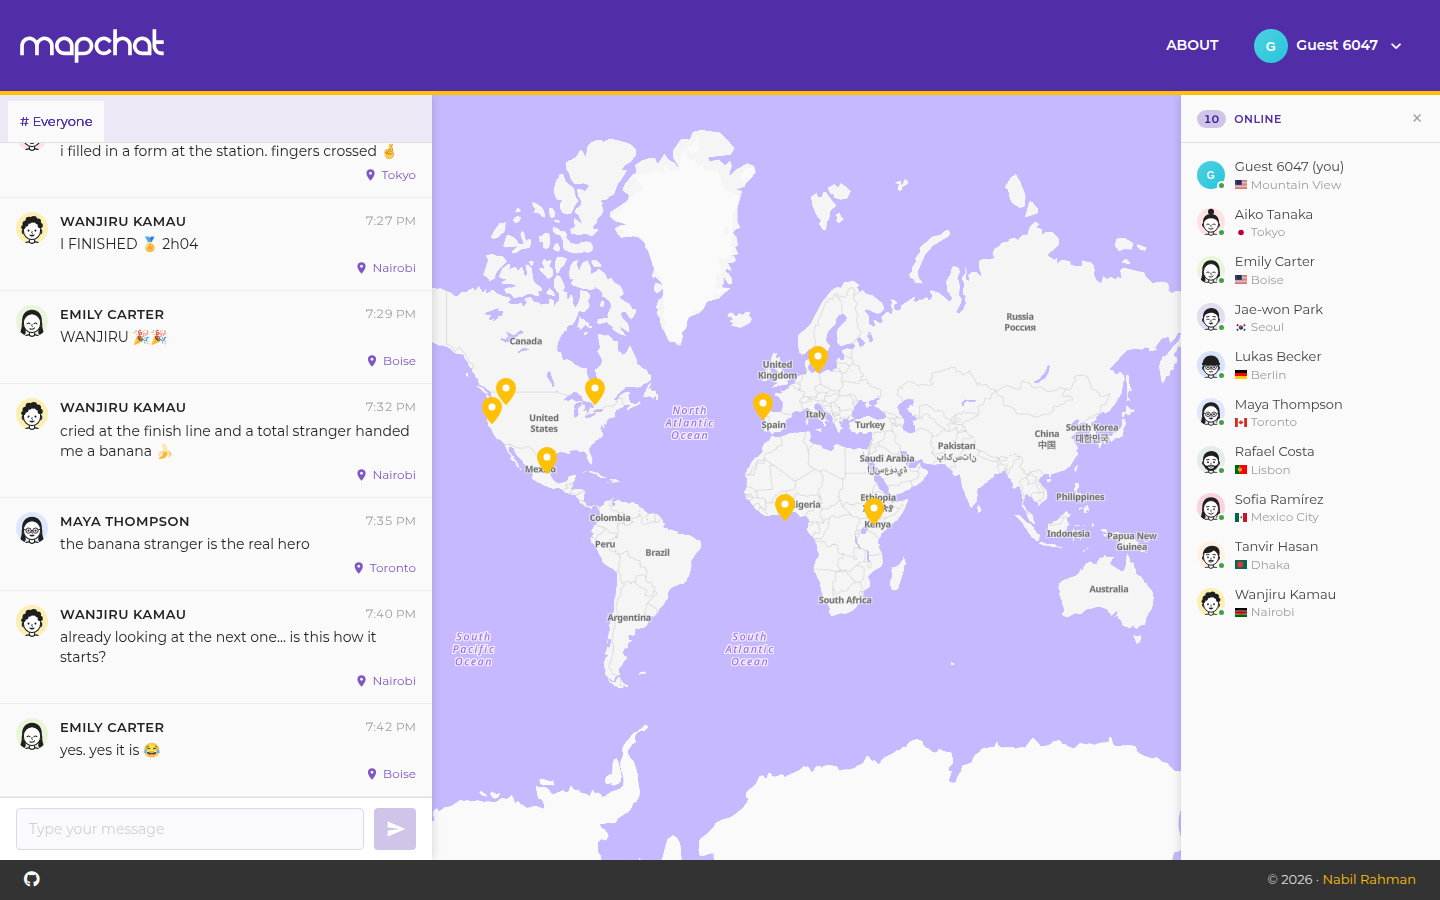
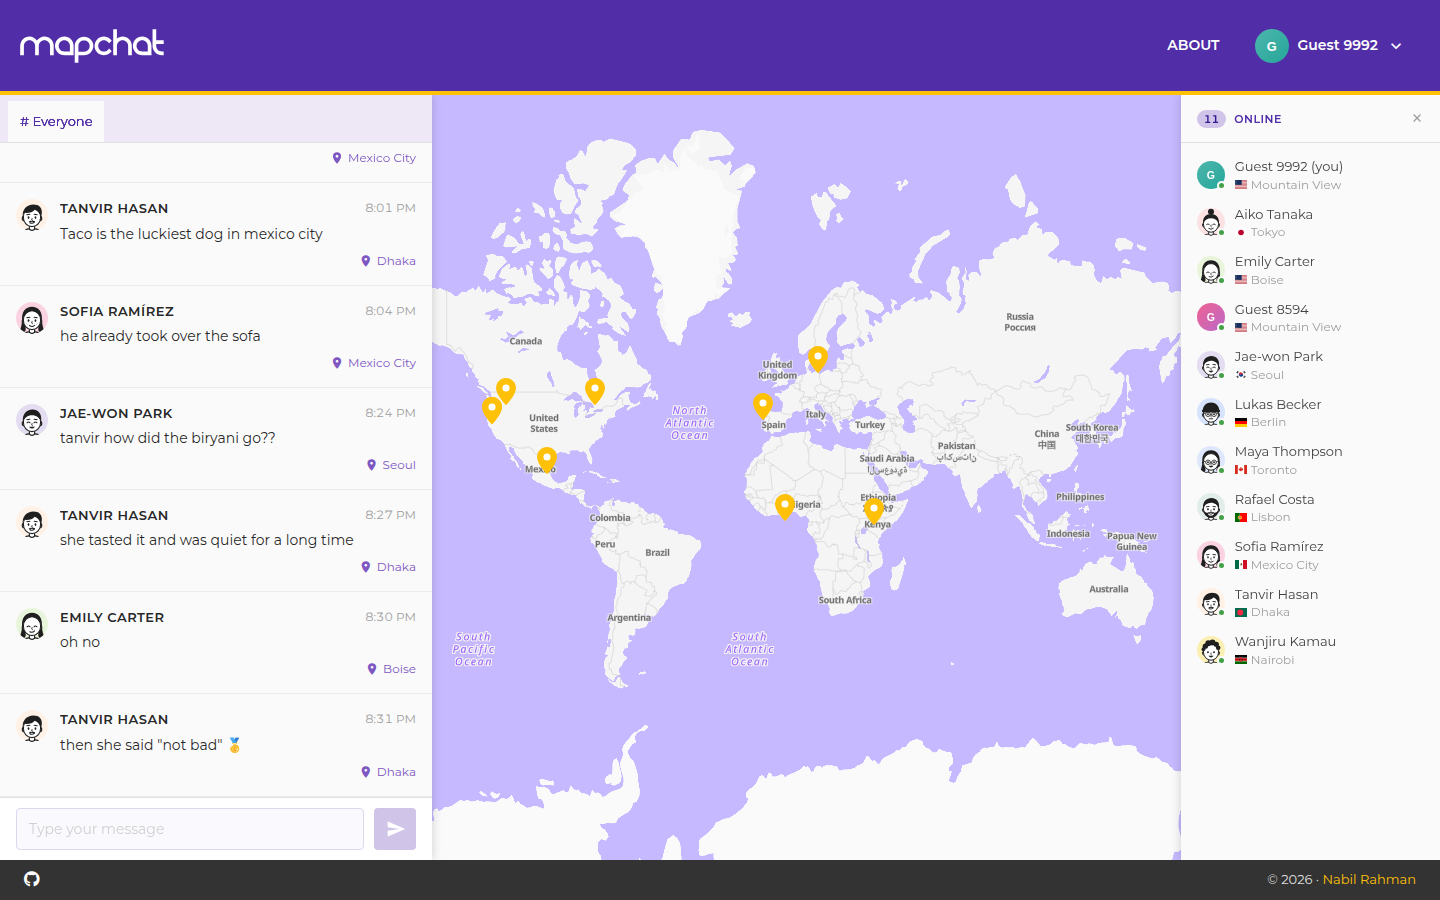
Give chat messages a little more room
Inside each message the name sat 4px above the text and the text 6px above the city. Now 6px and 8px, with lines 21px apart and 16px around each message. The README chat screenshot is retaken.

diff --git a/public/css/chat.css b/public/css/chat.css
@@ -916,7 +916,7 @@ body
     display: grid;
     grid-template-columns: 32px 1fr;
     column-gap: 12px;
-    padding: 14px 16px;
+    padding: 16px;
     border-bottom: 1px solid #ececec;
     background-color: #fafafa;
     transition: background-color var(--dur-fast) var(--ease-out);
@@ -1014,9 +1014,9 @@ body
 .chat__body
 {
     grid-column: 1 / -1;
-    margin: 4px 0 0;
+    margin: 6px 0 0;
     font-size: 14px;
-    line-height: 20px;
+    line-height: 21px;
     text-align: left;
     overflow-wrap: anywhere;
     white-space: pre-line; /* keep line breaks people typed */
@@ -1027,7 +1027,7 @@ body
     grid-column: 1 / -1;
     display: flex;
     justify-content: flex-end; /* bottom right corner, under the time */
-    margin-top: 6px;
+    margin-top: 8px;
     color: #7e57c2;
     font-size: 12px;
     line-height: 16px;

diff --git a/App/Views/base_chat.html b/App/Views/base_chat.html
@@ -3,7 +3,7 @@
 {% block title %}Chat{% endblock %}
 
 {% block head %}
-<link rel="stylesheet" href="/css/chat.css?v=107">
+<link rel="stylesheet" href="/css/chat.css?v=108">
 <link rel="stylesheet" href="https://unpkg.com/maplibre-gl@4.7.1/dist/maplibre-gl.css">
 <link rel="stylesheet" href="https://cdn.jsdelivr.net/npm/flag-icons@7.2.3/css/flag-icons.min.css">
 {% endblock %}
